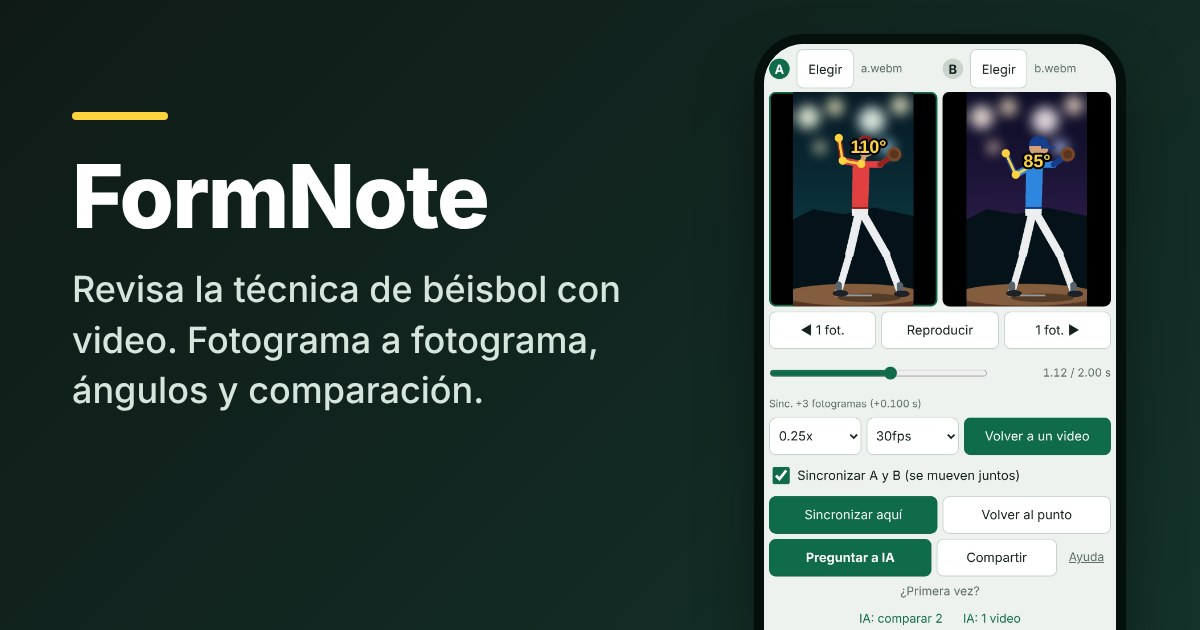
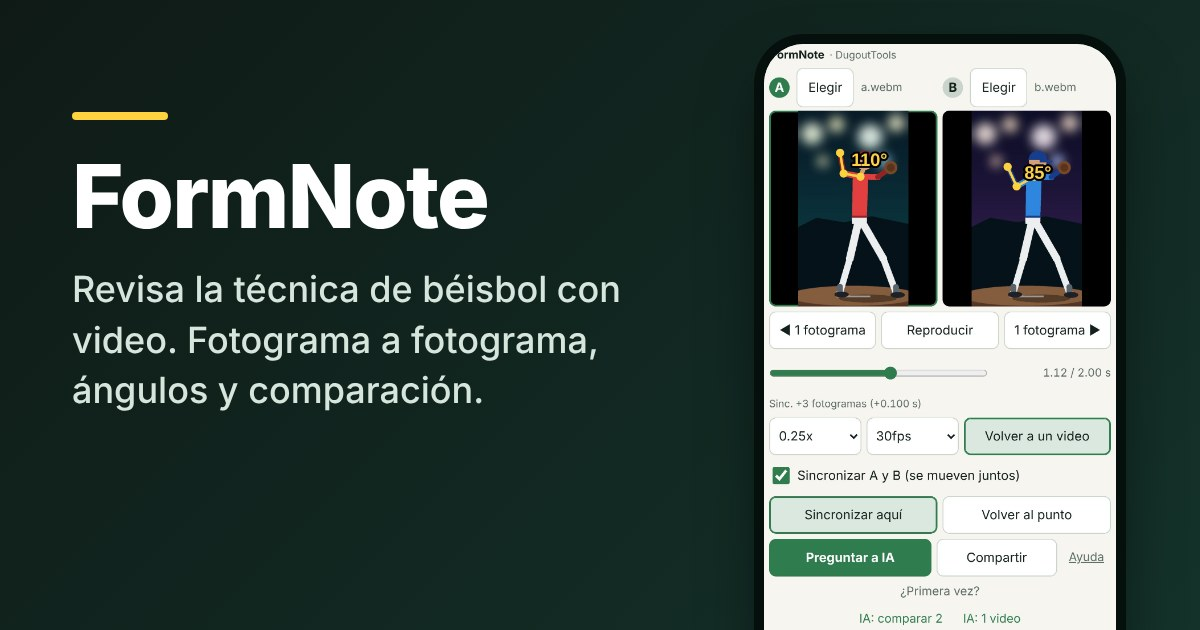
Add files via upload

diff --git a/index.html b/index.html
@@ -15,12 +15,12 @@
 <meta property="og:locale" content="es_419">
 <meta name="twitter:card" content="summary_large_image">
 <style>
-:root{--bg:#eef2ee;--panel:#fff;--line:#c9d4cc;--ink:#14201c;--mute:#5b6d64;--acc:#0f6b4a;--accInk:#fff;
+:root{--bg:#f6f5f0;--panel:#fff;--line:#c9d4cc;--ink:#14201c;--mute:#5b6d64;--acc:#2f7d4f;--accInk:#fff;
 box-sizing:border-box;padding-top:env(safe-area-inset-top,0px);padding-bottom:env(safe-area-inset-bottom,0px);color-scheme:light}
-@media (prefers-color-scheme:dark){:root:not([data-theme="light"]){--bg:#0f1a16;--panel:#18251f;--line:#2b3d35;--ink:#e6efe9;--mute:#93a79c;--acc:#ffd23f;--accInk:#14201c;color-scheme:dark}}
-:root[data-theme="dark"]{--bg:#0f1a16;--panel:#18251f;--line:#2b3d35;--ink:#e6efe9;--mute:#93a79c;--acc:#ffd23f;--accInk:#14201c;color-scheme:dark}
+@media (prefers-color-scheme:dark){:root:not([data-theme="light"]){--bg:#0f1a16;--panel:#18251f;--line:#2b3d35;--ink:#e6efe9;--mute:#93a79c;--acc:#58b87e;--accInk:#14201c;color-scheme:dark}}
+:root[data-theme="dark"]{--bg:#0f1a16;--panel:#18251f;--line:#2b3d35;--ink:#e6efe9;--mute:#93a79c;--acc:#58b87e;--accInk:#14201c;color-scheme:dark}
 html,body{height:100%;overscroll-behavior:none}
-body{margin:0;background:var(--bg);color:var(--ink);font:15px/1.4 "Hiragino Sans","Noto Sans JP","Yu Gothic",system-ui,sans-serif;display:flex;flex-direction:column;gap:6px;padding:6px;box-sizing:border-box}
+body{margin:0;background:var(--bg);color:var(--ink);font:15px/1.4 system-ui,-apple-system,"Segoe UI",Roboto,sans-serif;display:flex;flex-direction:column;gap:6px;padding:6px;box-sizing:border-box}
 .panes{display:grid;grid-template-columns:1fr;gap:6px;flex:1;min-height:0}
 .panes.two{grid-template-columns:1fr 1fr}
 .panes.two.rows{grid-template-columns:1fr;grid-template-rows:1fr 1fr}
@@ -48,7 +48,8 @@ canvas{position:absolute;inset:0;width:100%;height:100%;touch-action:none}
 .empty{position:absolute;inset:0;margin:0;display:grid;place-items:center;text-align:center;color:#9aa;padding:1rem;pointer-events:none}
 .row{display:flex;flex-wrap:wrap;gap:6px;align-items:center}
 .btn,select{background:var(--panel);color:var(--ink);border:1px solid var(--line);border-radius:8px;padding:0 .8rem;font:inherit;min-height:44px;display:inline-flex;align-items:center;cursor:pointer}
-.btn.on{background:var(--acc);color:var(--accInk);border-color:var(--acc)}
+.btn.pri{background:var(--acc);color:var(--accInk);border-color:var(--acc)}
+.btn.on{background:color-mix(in srgb,var(--acc) 18%,var(--panel));color:var(--ink);border-color:var(--acc);box-shadow:inset 0 0 0 1px var(--acc)}
 .btn:focus-visible,select:focus-visible,input:focus-visible{outline:2px solid var(--acc);outline-offset:2px}
 input[type=color]{width:44px;height:44px;padding:2px;border:1px solid var(--line);border-radius:8px;background:var(--panel)}
 input[type=range]{flex:1;min-width:120px;accent-color:var(--acc);height:44px}
@@ -101,25 +102,27 @@ details.draw:not([open]) .g-tools,details.draw:not([open]) .g-edit{display:none}
 
 .g-tut{grid-area:tut;display:flex;flex-wrap:wrap;justify-content:center;align-items:center;gap:0 4px;font-size:14px;color:var(--mute)}
 .g-tut .tl{flex-basis:100%;text-align:center;margin-top:2px}.g-tut .lnk{padding:0 10px}
-.g-tut .lnk{background:none;border:0;font:inherit;font-size:14px;cursor:pointer;color:var(--accent,#0f6b4b);min-height:44px}
+.g-tut .lnk{background:none;border:0;font:inherit;font-size:14px;cursor:pointer;color:var(--acc);min-height:44px}
 #tutmask{position:fixed;z-index:30;border-radius:10px;box-shadow:0 0 0 9999px rgba(0,0,0,.6);outline:3px solid #ffd23f;pointer-events:none;transition:all .2s}
-#tutcard{position:fixed;left:12px;right:12px;max-width:520px;margin:0 auto;z-index:31;background:#fff;color:#1b2b24;border-radius:12px;padding:14px 16px;box-shadow:0 6px 24px rgba(0,0,0,.4);font-size:15px;line-height:1.6}
+#tutcard{position:fixed;left:12px;right:12px;max-width:520px;margin:0 auto;z-index:31;background:#2f7d4f;color:#fff;border-radius:12px;padding:14px 16px;box-shadow:0 6px 24px rgba(0,0,0,.4);font-size:15px;line-height:1.6}
 #tutcard h3{margin:0 0 4px;font-size:16px}
 #tutcard p{margin:0 0 10px;line-height:1.7;word-break:auto-phrase;text-wrap:pretty;line-break:strict}
 #tutcard .row{display:flex;gap:8px;align-items:center}
-#tutcard .row .grow{flex:1;font-size:12px;color:#5b6b63}
-#tutcard button{color:#1b2b24;min-height:44px;padding:0 16px;border-radius:8px;border:1px solid #c9d3cd;background:#fff;font:inherit;cursor:pointer}
-#tutcard button.go{background:#0f6b4b;color:#fff !important;border-color:#0f6b4b;font-weight:700}
+#tutcard .row .grow{flex:1;font-size:12px;color:rgba(255,255,255,.85)}
+#tutcard button{color:#fff;min-height:44px;padding:0 16px;border-radius:8px;border:1px solid #fff;background:transparent;font:inherit;cursor:pointer}
+#tutcard button.go{background:#fff;color:#2f7d4f !important;border-color:#fff;font-weight:700}
 #tutcard button:disabled{opacity:.4}
-#tutbn{max-width:640px;margin:0 auto 6px;background:#0f6b4b;color:#fff;border-radius:12px;padding:10px 12px;display:flex;gap:8px;align-items:center;font-size:14px;box-shadow:0 4px 16px rgba(0,0,0,.3)}
+#tutbn{max-width:640px;margin:0 auto 6px;background:#2f7d4f;color:#fff;border-radius:12px;padding:10px 12px;display:flex;gap:8px;align-items:center;font-size:14px;box-shadow:0 4px 16px rgba(0,0,0,.3)}
 #tutbn span{flex:1}.nb{white-space:normal}#tutbn button{min-height:44px;border-radius:8px;border:1px solid #fff;background:transparent;color:#fff;font:inherit;padding:0 12px;cursor:pointer}
 #tutbn[hidden],#tutmask[hidden],#tutcard[hidden]{display:none!important}
-#tutbn button.go{background:#fff;color:#0f6b4b;font-weight:700}
+#tutbn button.go{background:#fff;color:#2f7d4f;font-weight:700}
+.brand{display:flex;gap:6px;align-items:baseline;font-size:12px;line-height:1.2;color:var(--mute);padding:0 2px}.brand b{color:var(--ink);font-size:13px}
 .g-sup{text-align:center}.g-sup[hidden]{display:none}.g-sup .lnk{display:inline-block;min-height:44px}
-@media (orientation:landscape) and (max-height:560px){.g-sup{display:none}}
+@media (orientation:landscape) and (max-height:560px){.g-sup,.brand{display:none}}
 </style>
 </head>
 <body>
+<div class="brand"><b>FormNote</b><span>· DugoutTools</span></div>
 <div id="tutbn" hidden><span><span class="nb">¿Primera vez? </span><span class="nb">Te guiamos para comparar dos videos y consultar </span><span class="nb">a la IA.</span></span><button class="go" id="tutgo">Ver guía</button><button id="tutno" aria-label="Cerrar">×</button></div>
 <div class="panes" id="panes"></div>
 
@@ -148,7 +151,7 @@ details.draw:not([open]) .g-tools,details.draw:not([open]) .g-edit{display:none}
     <span class="anc" hidden><button class="btn" id="anchor" disabled>Sincronizar aquí</button><button class="btn" id="goanchor" disabled>Volver al punto</button></span>
   </div>
   <div class="g-act">
-    <button class="btn on" id="aimain">Preguntar a IA</button>
+    <button class="btn pri" id="aimain">Preguntar a IA</button>
     <button class="btn" id="snap">Compartir</button>
     <a class="lnk" href="help.html" target="_blank" rel="noopener">Ayuda</a>
   </div>
@@ -167,7 +170,7 @@ details.draw:not([open]) .g-tools,details.draw:not([open]) .g-edit{display:none}
       <span class="hintline" id="toolhint">Arrastra para trazar una línea</span>
     </div>
   </details>
-  <div class="g-sup" hidden><a class="lnk" id="supportlink" href="#" target="_blank" rel="noopener">☕ Apoya esta herramienta gratuita</a></div>
+  <div class="g-sup" hidden><a class="lnk" id="supportlink" href="#" target="_blank" rel="noopener">☕ Apoya a DugoutTools</a></div>
 </div>
 
 <div id="tutmask" hidden></div><div id="tutcard" hidden role="dialog" aria-live="polite"></div>
@@ -175,12 +178,12 @@ details.draw:not([open]) .g-tools,details.draw:not([open]) .g-edit{display:none}
   <div class="seg"><button class="btn on" id="m1">Este momento</button><button class="btn" id="m4">4 fotogramas</button><label id="ivw" hidden>Intervalo <select id="burstiv"><option value="1">1 fotograma</option><option value="2">2 fotogramas</option><option value="3">3 fotogramas</option><option value="5" selected>5 fotogramas</option><option value="10">10 fotogramas</option><option value="15">15 fotogramas</option><option value="30">30 fotogramas</option></select></label></div>
   <img id="snapimg" alt="Imagen fija">
   <p class="hint" id="snaphint">Mantén pulsada la imagen para guardarla.</p>
-  <div class="row" style="justify-content:center"><button class="btn on" id="snapshare" hidden>Compartir</button><button class="btn" id="snapclose">Cerrar</button></div>
+  <div class="row" style="justify-content:center"><button class="btn pri" id="snapshare" hidden>Compartir</button><button class="btn" id="snapclose">Cerrar</button></div>
   <div id="aipanel" hidden>
     <div class="row" style="justify-content:center"><select id="aikind"><option>Bateo</option><option>Pitcheo</option></select><input id="aictx" type="text" maxlength="80" placeholder="Edad, mano con la que bateas/lanzas, qué mejorar"></div>
     <select id="aipair" hidden><option value="">A y B: sin especificar</option><option value="self">Ambos videos son míos (otro día o estado)</option><option value="AM">A soy yo, B es el jugador de referencia</option><option value="MA">A es el jugador de referencia, B soy yo</option></select>
     <textarea id="aitext" rows="6" aria-label="Pregunta para la IA"></textarea>
-    <button class="btn on" id="aisend">Copiar pregunta y enviar a app de IA</button>
+    <button class="btn pri" id="aisend">Copiar pregunta y enviar a app de IA</button>
     <div id="aimsg" role="status"></div>
   </div>
 </div>

diff --git a/help.html b/help.html
@@ -5,8 +5,8 @@
 <meta name="viewport" content="width=device-width, initial-scale=1">
 <title>Cómo usar FormNote</title>
 <style>
-:root{--bg:#eef2ee;--panel:#fff;--line:#c9d4cc;--ink:#14201c;--mute:#4f6158;--acc:#0f6b4a;--accInk:#fff;color-scheme:light}
-@media (prefers-color-scheme:dark){:root:not([data-theme="light"]){--bg:#0f1a16;--panel:#18251f;--line:#2b3d35;--ink:#e6efe9;--mute:#9db0a5;--acc:#ffd23f;--accInk:#14201c;color-scheme:dark}}
+:root{--bg:#f6f5f0;--panel:#fff;--line:#c9d4cc;--ink:#14201c;--mute:#4f6158;--acc:#2f7d4f;--accInk:#fff;color-scheme:light}
+@media (prefers-color-scheme:dark){:root:not([data-theme="light"]){--bg:#0f1a16;--panel:#18251f;--line:#2b3d35;--ink:#e6efe9;--mute:#9db0a5;--acc:#58b87e;--accInk:#14201c;color-scheme:dark}}
 *{box-sizing:border-box}
 body{margin:0;background:var(--bg);color:var(--ink);font:17px/1.7 system-ui,-apple-system,"Segoe UI",Roboto,"Hiragino Sans","Noto Sans JP",sans-serif}
 main{word-break:auto-phrase;line-break:strict;text-wrap:pretty}
@@ -105,9 +105,9 @@ footer{margin-top:2.4rem;color:var(--mute);font-size:.92rem}
 </ul>
 
 
-<h2>Apoya esta herramienta gratuita</h2>
+<h2>Apoya a DugoutTools</h2>
 <p>FormNote es de uso gratuito. Si te ha sido útil, puedes apoyar su desarrollo con un café. Es opcional: todas las funciones siguen siendo gratuitas.</p>
-<a class="btn" href="https://buymeacoffee.com/formnote" target="_blank" rel="noopener">☕ Apoya esta herramienta gratuita</a>
+<a class="btn" href="https://buymeacoffee.com/formnote" target="_blank" rel="noopener">☕ Apoya a DugoutTools</a>
 
 <h2>Preguntas</h2>
 <details><summary>Soy nuevo. ¿Cómo lo uso?</summary><p>Debajo de “¿Primera vez?”, en la parte de abajo de la app, hay dos guías. “IA: 1 video” va desde elegir un video hasta enviarlo a una app de IA. “IA: comparar 2” coloca dos videos lado a lado, alinea el punto de sincronía y sigue hasta enviarlo a una app de IA. Ambas señalan la pantalla paso a paso. La primera vez que abres la app también aparece un aviso sobre la guía.</p></details><details><summary>¿Se suben mis videos a algún sitio?</summary><p>No. Los videos se abren y se procesan en tu dispositivo, dentro del navegador. FormNote no los envía a ningún servidor.</p></details><details><summary>¿Se puede abrir la app desde la imagen guardada?</summary><p>Sí. Abre la imagen guardada en el mismo teléfono y mantén presionado el código QR (en Google Fotos o Google Lens, toca el enlace detectado), o escanéalo con la cámara de otro teléfono. El enlace escrito junto al código QR forma parte de la imagen, así que no se puede tocar. El código QR funciona en una imagen guardada o en una captura de pantalla, siempre que la imagen siga siendo lo bastante grande para leerse. Si usas <b>Compartir</b>, el enlace se envía también como texto y muchas apps de mensajería lo hacen tocable.</p></details><details><summary>No veo el botón Compartir.</summary><p>El botón Compartir solo aparece en los navegadores que pueden compartir imágenes. Si no lo ves, mantén presionada la imagen para guardarla o haz una captura de pantalla, y envía esa imagen.</p></details><details><summary>¿Qué incluye la imagen guardada?</summary><p>La imagen de <b>Compartir</b> es el fotograma que estabas viendo, con tus dibujos y ángulos encima. La imagen de <b>Preguntar a IA</b> no lleva dibujos. Abajo se añade una barra con el nombre de la app, su enlace y un código QR.</p></details><details><summary>El video tarda mucho en cargar.</summary><p>Los archivos grandes, como clips largos en 4K, pueden tardar en abrirse. Prueba a grabar en 1080p o recorta el clip a la parte que necesitas.</p></details><details><summary>El video no se reproduce.</summary><p>Algunos videos del teléfono usan un formato que no todos los dispositivos pueden reproducir, sobre todo los de HEVC (H.265) del iPhone. En iPhone, elige <b>Ajustes → Cámara → Formatos → Más compatible</b> y vuelve a grabar, o convierte el video a MP4 con H.264. Luego elígelo de nuevo.</p></details><details><summary>¿Los dibujos siguen al video?</summary><p>No. Los dibujos quedan fijos en la zona de imagen, no en cada fotograma. Se mantienen en el mismo lugar al avanzar por el video, así puedes comparar el movimiento del cuerpo con una línea fija. Cada panel guarda sus propios dibujos, y se borran al elegir otro video.</p></details><details><summary>Fotograma no avanza de uno en uno.</summary><p>Revisa el ajuste de fps. Debe coincidir con los fotogramas por segundo con los que grabaste. Si es mayor que el real del video, cada toque avanza menos de un fotograma.</p></details><details><summary>Mi teléfono siempre abre la misma carpeta al elegir un video.</summary><p>El selector de archivos lo controla tu teléfono, no la app. Prueba la vista <b>Recientes</b> o <b>Videos</b> del selector para encontrar tus clips sin recorrer carpetas.</p></details><details><summary>¿Se quedan los dibujos en el video?</summary><p>Se quedan mientras la página está abierta. Si recargas la página o eliges otro video, se borran. Usa <b>Compartir</b> para conservar una imagen.</p></details>
